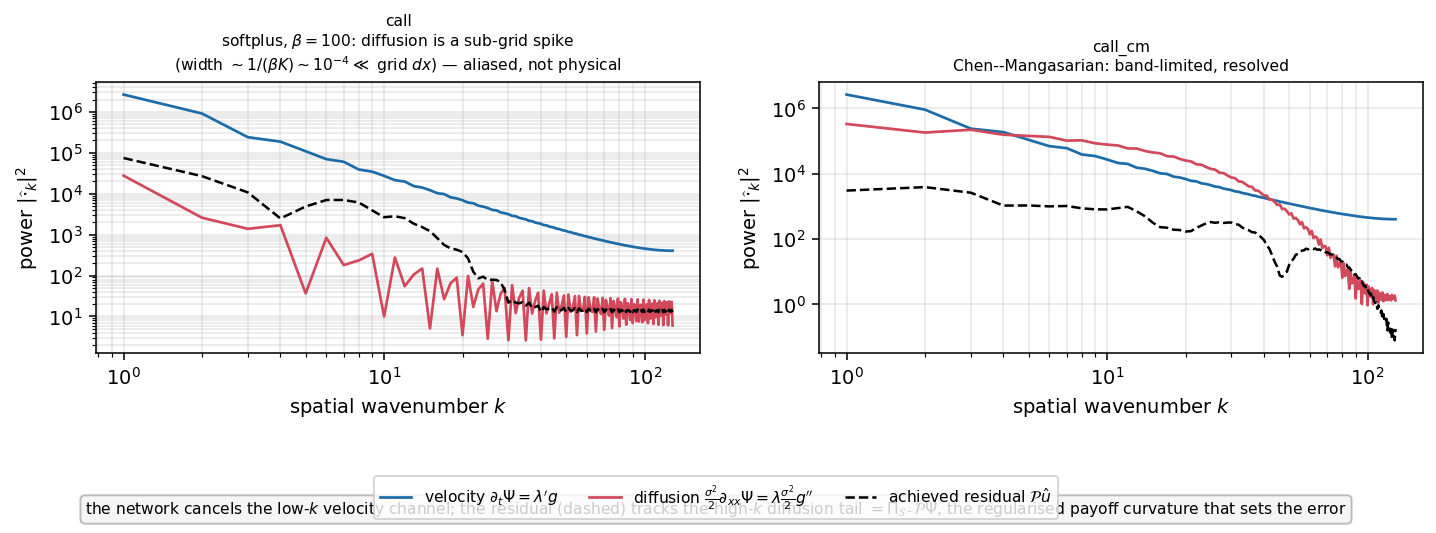
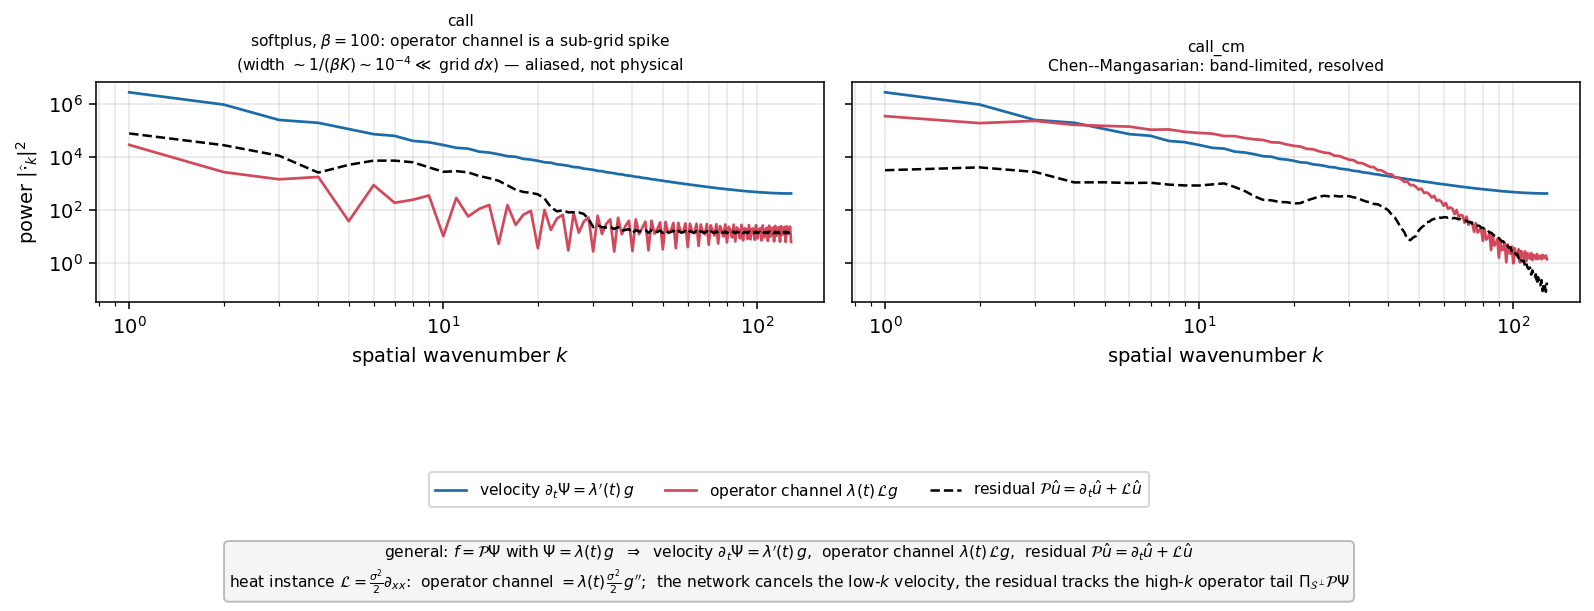
plot: spectral channel figure on a common scale, general formulas in textbox
forcing_channels_spectra.png: share y/x across the call/call_cm panels so they are
directly comparable; legend states the operator-general channels (velocity
d_t Psi = lambda*g_prime, operator channel lambda*L g, residual P u_hat =
d_t u_hat + L u_hat) and the formula box gives the general split with the heat
instance L = (sigma^2/2) d_xx as the particular consequence. Raise the legend
above the formula box on both this and spectra_by_ic.png to clear the overlap
warnings. Report caption updated to match.

diff --git a/experiments/python_scripts/exp_ansatz_forms_heat/spectral_gap_analysis.py b/experiments/python_scripts/exp_ansatz_forms_heat/spectral_gap_analysis.py
@@ -210,11 +210,11 @@ def main(argv=None) -> int:
         ax.grid(True, which="both", alpha=0.3)
     handles, labs = axes[0, 0].get_legend_handles_labels()
     leg = fig.legend(handles, labs, loc="lower center", ncol=4, fontsize=7,
-                     frameon=True, bbox_to_anchor=(0.5, 0.0))
+                     frameon=True, bbox_to_anchor=(0.5, 0.08))
     fig.suptitle("Forcing spectrum $|\\widehat{\\mathcal{P}\\Psi}_k|^2$ (solid) vs "
                  "achieved-residual spectrum $|\\widehat{\\mathcal{P}\\hat u}_k|^2$ (dashed)",
                  fontsize=11)
-    fig.tight_layout(rect=[0, 0.14, 1, 0.95])
+    fig.tight_layout(rect=[0, 0.22, 1, 0.95])
     finalize_figure(fig, out / "spectra_by_ic.png", legends=[leg], axes=list(axes[0]),
                     formula=(r"network cancels low $k$ (residual $\ll$ forcing); "
                              r"the surviving high-$k$ residual $=\Pi_{\mathcal{S}^\perp}\mathcal{P}\Psi$ "
@@ -227,39 +227,56 @@ def main(argv=None) -> int:
     split_form = "hard_convex_linear"
     split_ics = [ic for ic in ("call", "call_cm") if (ic, split_form) in spectra]
     if split_ics:
-        figc, axesc = plt.subplots(1, len(split_ics), figsize=(5.2 * len(split_ics), 4.4),
-                                   squeeze=False)
-        for ax, ic in zip(axesc[0], split_ics):
+        # sharey/sharex so the two panels are on one common scale (directly
+        # comparable); only the left panel carries the y-label and tick labels.
+        figc, axesc = plt.subplots(1, len(split_ics), figsize=(5.8 * len(split_ics), 5.0),
+                                   squeeze=False, sharex=True, sharey=True)
+        for j, (ax, ic) in enumerate(zip(axesc[0], split_ics)):
             sp = spectra[(ic, split_form)]
             k = sp["k"]
+            # General forcing channels of f = P Psi with Psi = lambda(t) g; the
+            # legend states the operator-general form, the formula box specialises
+            # it to the heat instance L = (sigma^2/2) d_xx.
             ax.loglog(k[1:], np.clip(sp["vel_pow"][1:], 1e-30, None), "-",
-                      color="#1b6ca8", lw=1.4, label=r"velocity $\partial_t\Psi=\lambda' g$")
+                      color="#1b6ca8", lw=1.4,
+                      label=r"velocity $\partial_t\Psi=\lambda'(t)\,g$")
             ax.loglog(k[1:], np.clip(sp["diff_pow"][1:], 1e-30, None), "-",
                       color="#d1495b", lw=1.4,
-                      label=r"diffusion $\frac{\sigma^2}{2}\partial_{xx}\Psi=\lambda\frac{\sigma^2}{2}g''$")
+                      label=r"operator channel $\lambda(t)\,\mathcal{L}g$")
             ax.loglog(k[1:], np.clip(sp["r_pow"][1:], 1e-30, None), "--",
-                      color="black", lw=1.3, label=r"achieved residual $\mathcal{P}\hat u$")
+                      color="black", lw=1.3,
+                      label=r"residual $\mathcal{P}\hat u=\partial_t\hat u+\mathcal{L}\hat u$")
             note = {
-                "call": "softplus, $\\beta=100$: diffusion is a sub-grid spike\n"
+                "call": "softplus, $\\beta=100$: operator channel is a sub-grid spike\n"
                         "(width $\\sim1/(\\beta K)\\sim10^{-4}\\ll$ grid $dx$) — aliased, not physical",
                 "call_cm": "Chen--Mangasarian: band-limited, resolved",
             }.get(ic, "")
             ax.set_title(f"{ic}\n{note}", fontsize=8)
             ax.set_xlabel("spatial wavenumber $k$")
-            ax.set_ylabel(r"power $|\widehat{\cdot}_k|^2$")
+            if j == 0:
+                ax.set_ylabel(r"power $|\widehat{\cdot}_k|^2$")
             ax.grid(True, which="both", alpha=0.3)
         handlesc, labsc = axesc[0, 0].get_legend_handles_labels()
+        # legend sits clearly above the two-line formula box (anchored ~0.012 by
+        # finalize_figure) so the two never overlap.
         legc = figc.legend(handlesc, labsc, loc="lower center", ncol=3, fontsize=8,
-                           frameon=True, bbox_to_anchor=(0.5, 0.0))
+                           frameon=True, bbox_to_anchor=(0.5, 0.13))
         figc.suptitle(f"Forcing-channel spectra vs achieved residual "
-                      f"({split_form}, convex form)", fontsize=11)
-        figc.tight_layout(rect=[0, 0.13, 1, 0.94])
-        finalize_figure(figc, out / "forcing_channels_spectra.png", legends=[legc],
-                        axes=list(axesc[0]),
-                        formula=(r"the network cancels the low-$k$ velocity channel; the "
-                                 r"residual (dashed) tracks the high-$k$ diffusion tail "
-                                 r"$=\Pi_{\mathcal{S}^\perp}\mathcal{P}\Psi$, the regularised "
-                                 r"payoff curvature that sets the error"))
+                      f"({split_form}, convex form; common scale)", fontsize=11)
+        figc.tight_layout(rect=[0, 0.30, 1, 0.94])
+        finalize_figure(
+            figc, out / "forcing_channels_spectra.png", legends=[legc],
+            axes=list(axesc[0]),
+            formula=(
+                r"general: $f=\mathcal{P}\Psi$ with $\Psi=\lambda(t)\,g$  "
+                r"$\Rightarrow$  velocity $\partial_t\Psi=\lambda'(t)\,g$,  "
+                r"operator channel $\lambda(t)\,\mathcal{L}g$,  "
+                r"residual $\mathcal{P}\hat u=\partial_t\hat u+\mathcal{L}\hat u$" "\n"
+                r"heat instance $\mathcal{L}=\frac{\sigma^2}{2}\partial_{xx}$:  "
+                r"operator channel $=\lambda(t)\,\frac{\sigma^2}{2}\,g''$;  "
+                r"the network cancels the low-$k$ velocity, the residual tracks the "
+                r"high-$k$ operator tail $\Pi_{\mathcal{S}^\perp}\mathcal{P}\Psi$"),
+            formula_fontsize=8)
 
     # ---- Figure 2: does the uncancellable energy predict the error? ----
     markers = {"sine": "o", "theta3": "s", "call": "^", "call_cm": "D"}

diff --git a/documents/2026-06-12_terminal_extension_smoothing_vs_ansatz_mode.md b/documents/2026-06-12_terminal_extension_smoothing_vs_ansatz_mode.md
@@ -163,9 +163,11 @@ $\lambda(t)=t/T$).
 
 ![Forcing-channel spectra vs achieved residual](figures/2026-06-12_forcing_channels_spectra.png)
 
-*Spatial power spectra (log–log): velocity channel $\lambda'g$ (blue), diffusion
-channel $\lambda\tfrac{\sigma^2}{2}g''$ (red), achieved residual $\mathcal{P}\hat u$
-(dashed). Left: softplus extension. Right: Chen–Mangasarian extension.*
+*Spatial power spectra (log–log, common scale across panels): velocity channel
+$\partial_t\Psi=\lambda'(t)g$ (blue), operator channel $\lambda(t)\mathcal{L}g$
+(red; heat instance $\lambda\tfrac{\sigma^2}{2}g''$), achieved residual
+$\mathcal{P}\hat u=\partial_t\hat u+\mathcal{L}\hat u$ (dashed). Left: softplus
+extension. Right: Chen–Mangasarian extension.*
 
 **Resolved case (Chen–Mangasarian, right panel) — the attribution holds as
 stated.** The velocity channel dominates at low $k$ and the diffusion channel at
